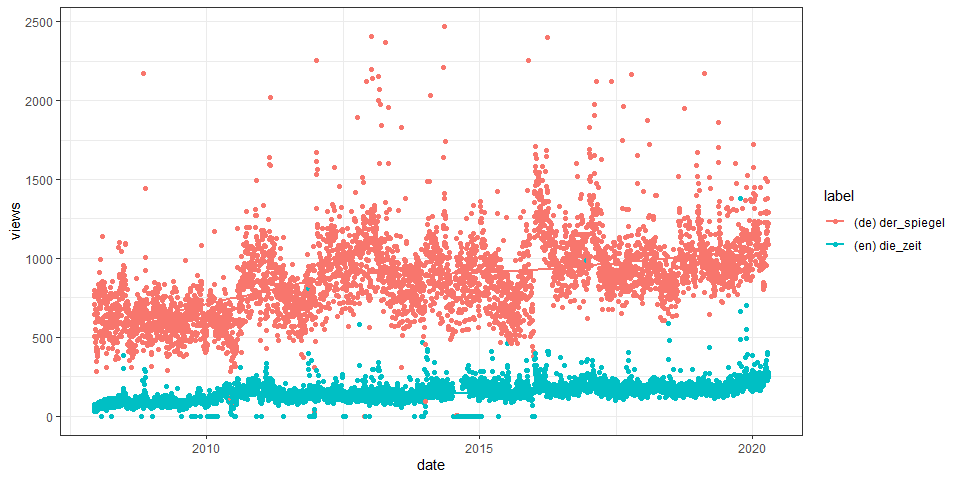
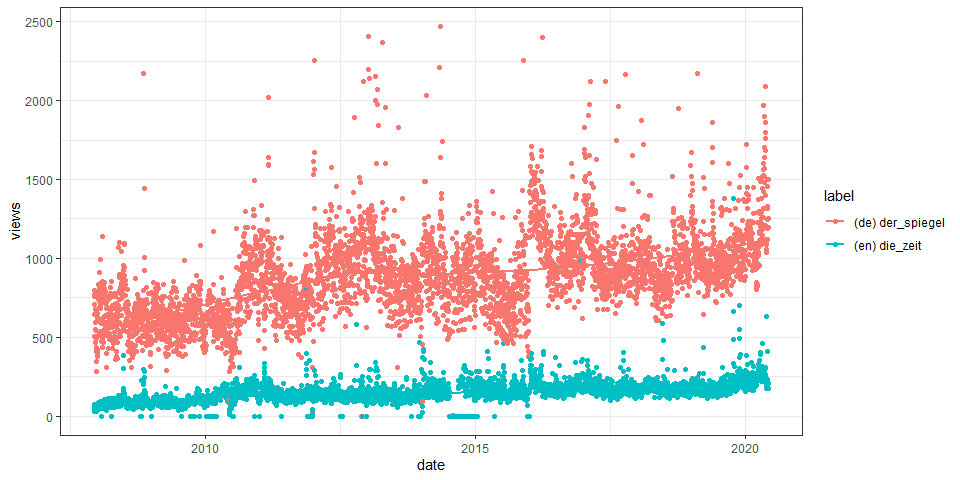
README

diff --git a/README.md b/README.md
@@ -18,7 +18,7 @@ status](https://ci.appveyor.com/api/projects/status/github/petermeissner/wikiped
 
 **Version**
 
-2.1.5 ( 2020-04-13 13:01:13 )
+2.1.6 ( 2020-06-03 12:43:18 )
 
 **Description**
 
@@ -40,7 +40,7 @@ citation("wikipediatrend")
 ```
 
 Meissner P (2020). *wikipediatrend: Public Subject Attention via
-Wikipedia Page View Statistics*. R package version 2.1.5.
+Wikipedia Page View Statistics*. R package version 2.1.6.
 
 **BibTex for citing**
 
@@ -109,13 +109,13 @@ trend_data
     ## 4    en       die_zeit    2007-12-11    35
     ## 3    de       der_spiegel 2007-12-11   710
     ## 5    de       der_spiegel 2007-12-12   770
-    ## 9020 en       die_zeit    2020-04-14   276
-    ## 9022 en       die_zeit    2020-04-15   259
-    ## 9021 de       der_spiegel 2020-04-15  1292
-    ## 9024 en       die_zeit    2020-04-16   243
-    ## 9023 de       der_spiegel 2020-04-16  1090
+    ## 9114 en       die_zeit    2020-05-31   209
+    ## 9116 en       die_zeit    2020-06-01   174
+    ## 9115 de       der_spiegel 2020-06-01  1498
+    ## 9118 en       die_zeit    2020-06-02   208
+    ## 9117 de       der_spiegel 2020-06-02  1252
     ## 
-    ## ... 9014 rows of data not shown
+    ## ... 9108 rows of data not shown
 
 *having another look …*
 
@@ -124,6 +124,8 @@ plot(
   trend_data[trend_data$views < 2500, ]
 )
 ```
+
+    ## `geom_smooth()` using formula 'y ~ x'
 
 ![](man/figures/README-unnamed-chunk-17-1.png)<!-- -->
 
@@ -164,13 +166,13 @@ trend_data
     ## 5     en       syria          2007-12-10    3205
     ## 4     en       influenza      2007-12-10    4153
     ## 3     en       donald_trump   2007-12-10    5050
-    ## 22447 en       climate_crisis 2020-04-17     151
-    ## 22448 en       crimea         2020-04-17    3201
-    ## 22451 en       syria          2020-04-17    6339
-    ## 22450 en       influenza      2020-04-17   11628
-    ## 22449 en       donald_trump   2020-04-17  772260
+    ## 22723 en       climate_crisis 2020-06-02     103
+    ## 22726 en       influenza      2020-06-02    3437
+    ## 22724 en       crimea         2020-06-02    3681
+    ## 22727 en       syria          2020-06-02    4969
+    ## 22725 en       donald_trump   2020-06-02  916742
     ## 
-    ## ... 22441 rows of data not shown
+    ## ... 22717 rows of data not shown
 
 *having another look …*
 
@@ -184,6 +186,8 @@ plot(trend_data) +
     ## Warning: Transformation introduced infinite values in continuous y-axis
     
     ## Warning: Transformation introduced infinite values in continuous y-axis
+
+    ## `geom_smooth()` using formula 'y ~ x'
 
     ## Warning: Removed 1202 rows containing non-finite values (stat_smooth).
 
